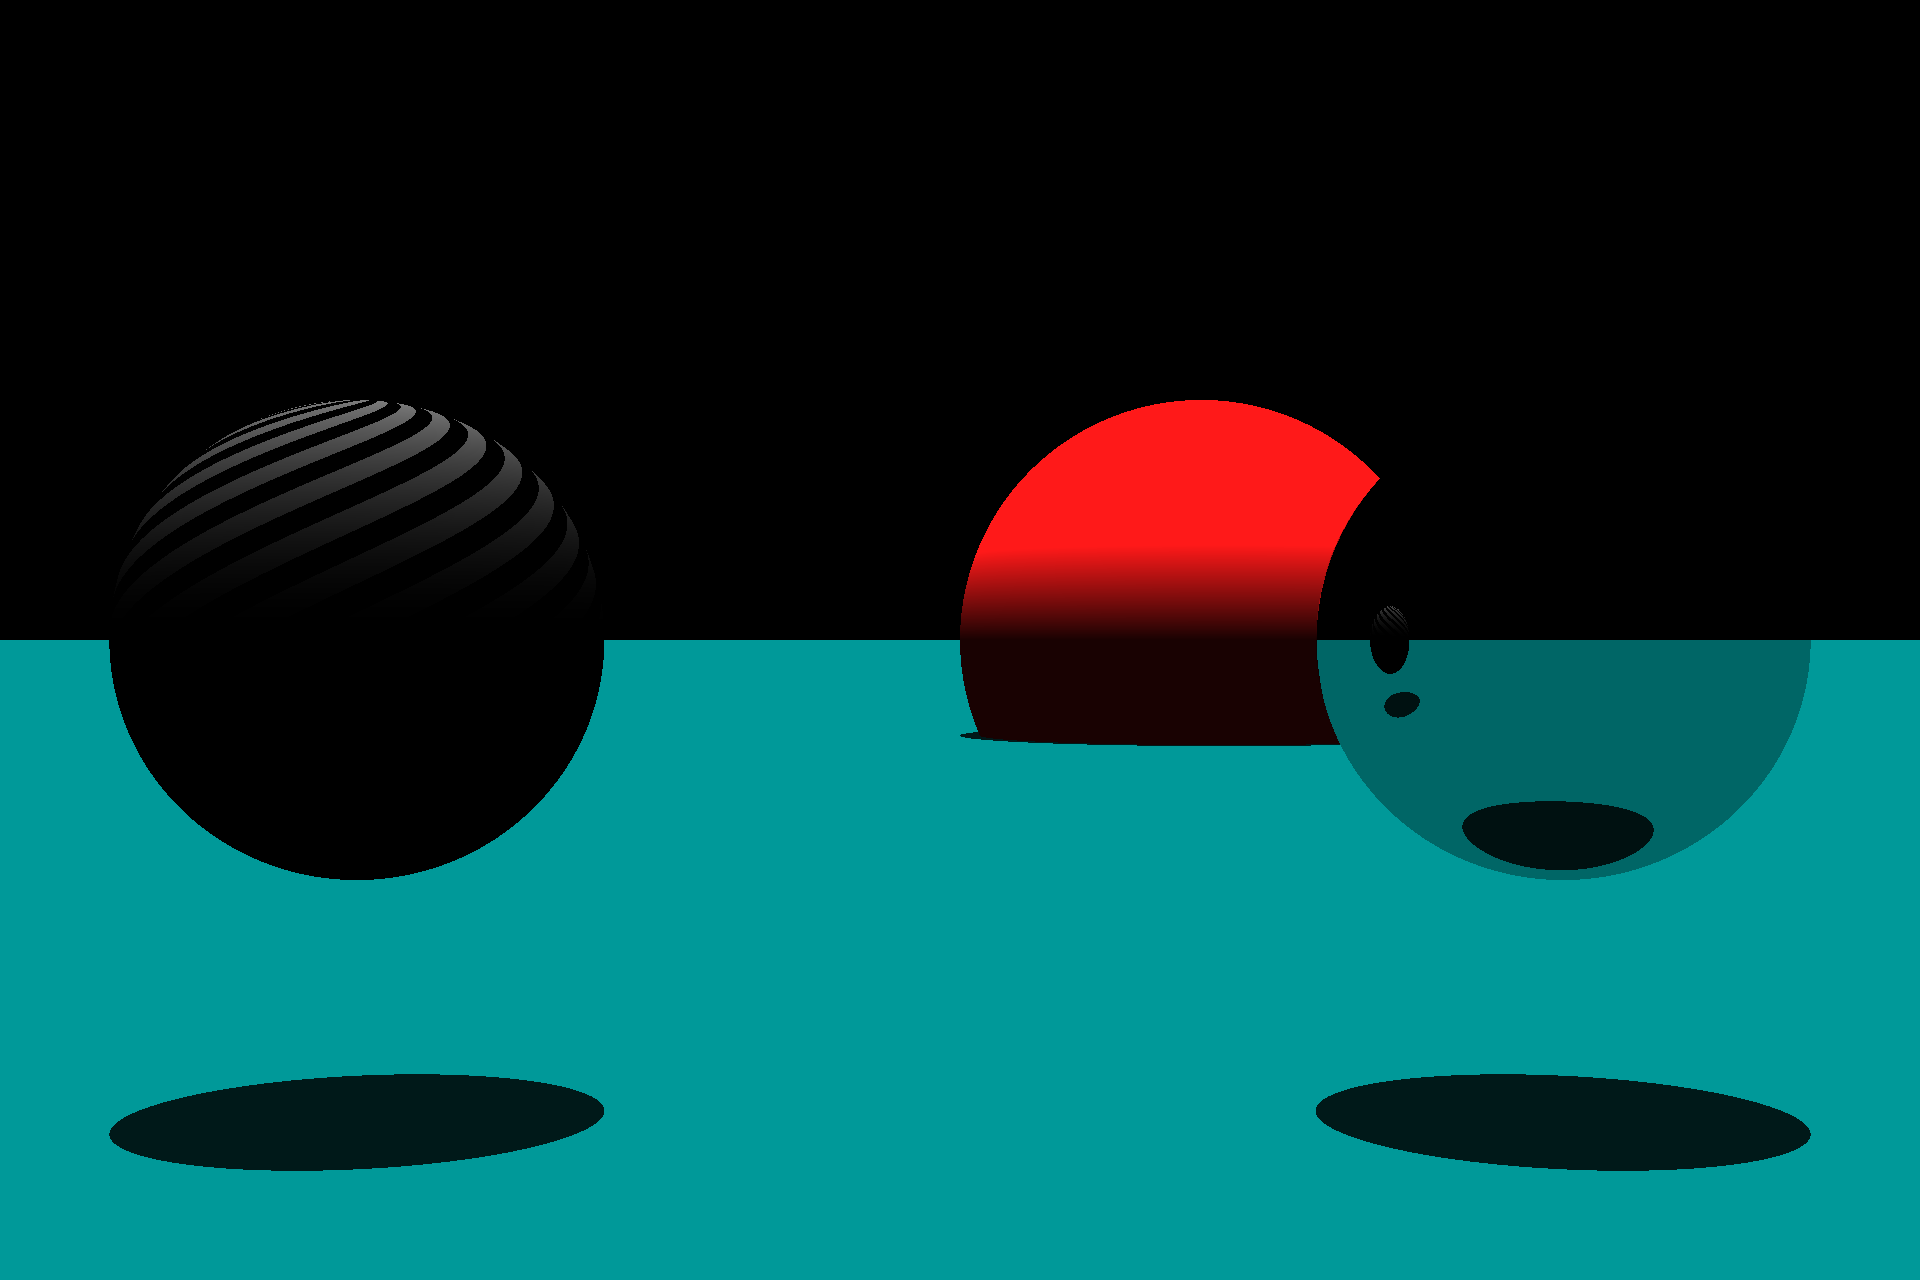
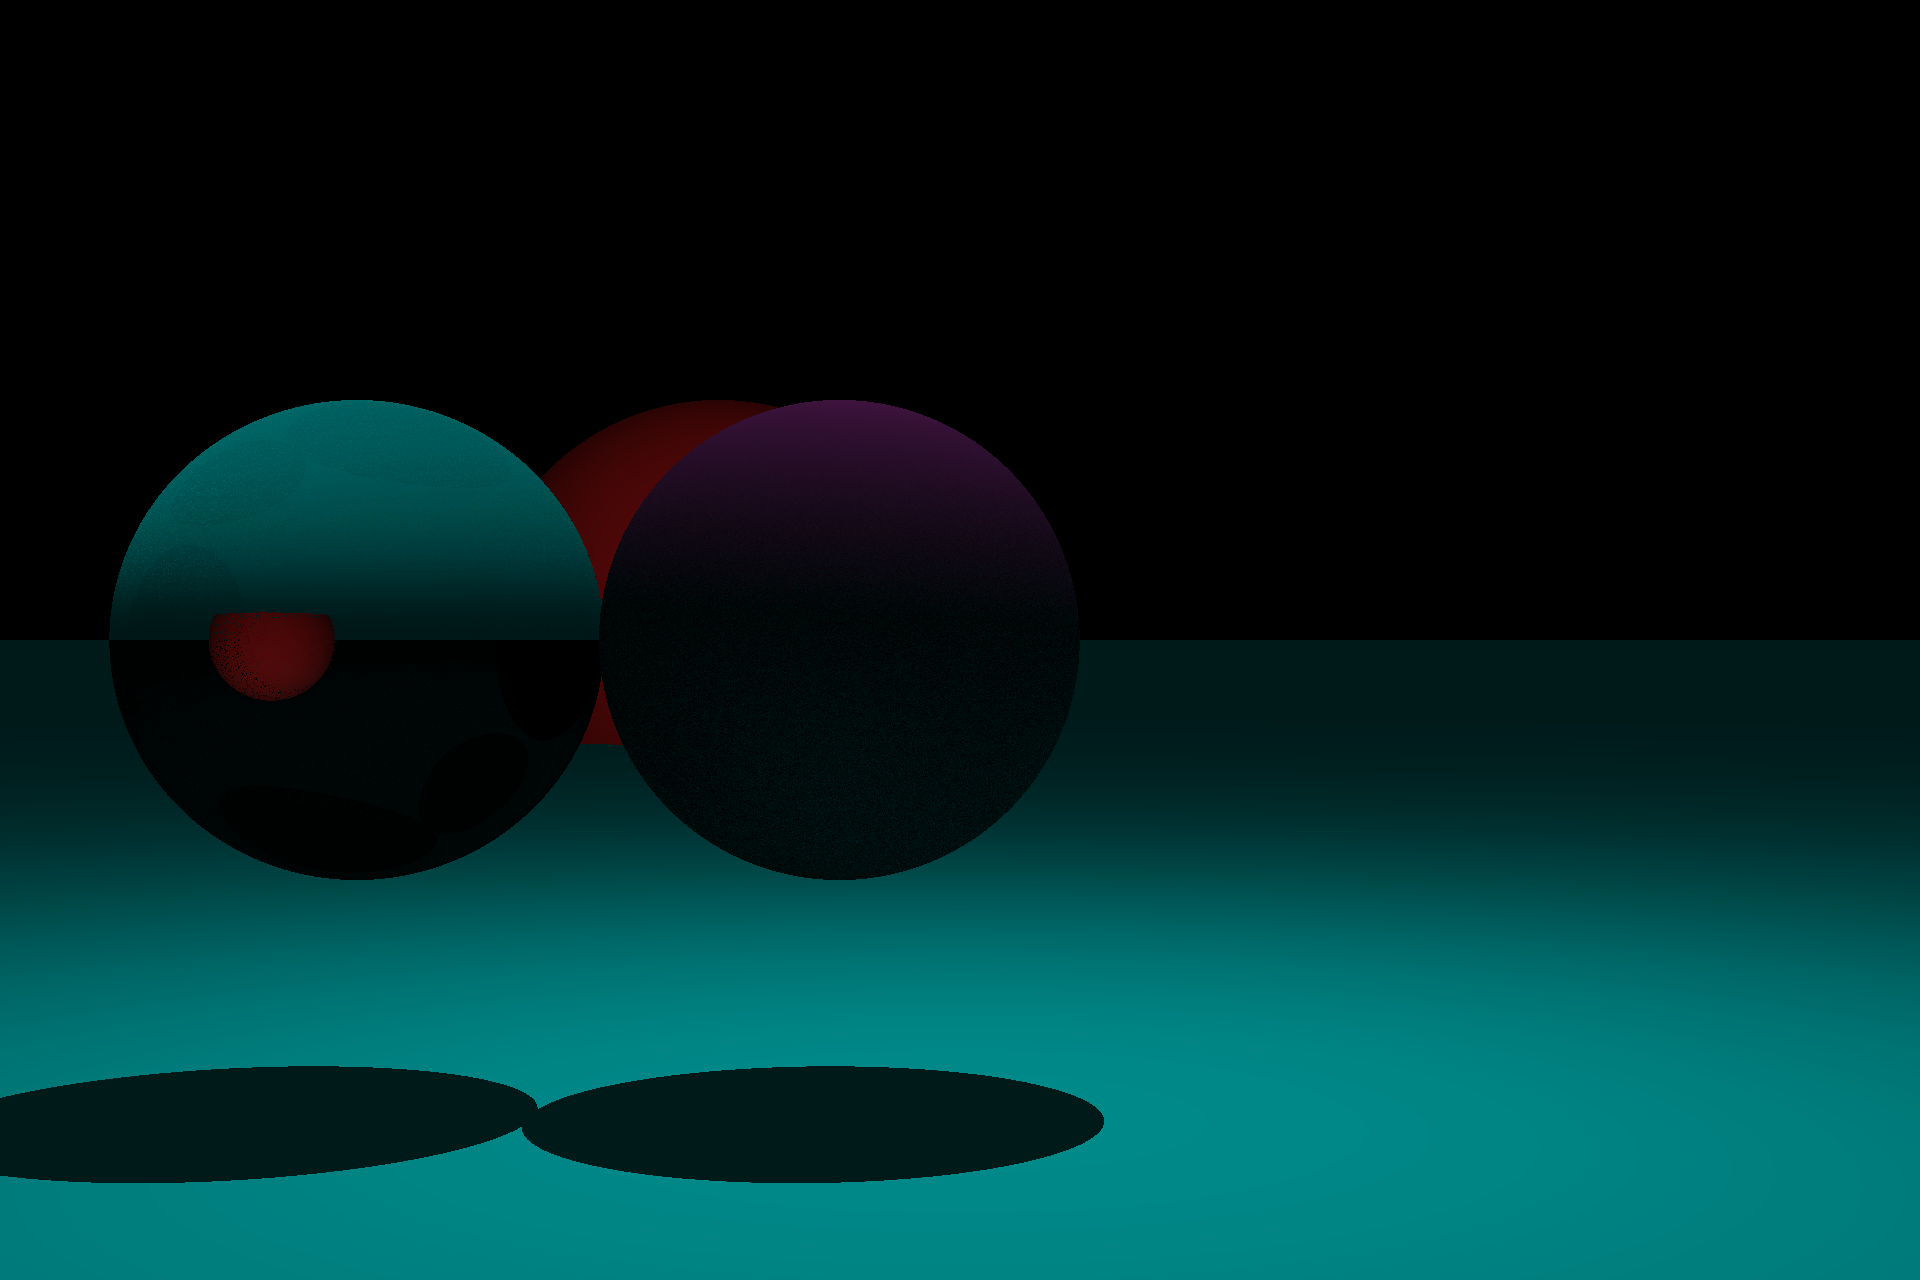
Add examples

diff --git a/image-converter/main.cpp b/image-converter/main.cpp
@@ -95,7 +95,7 @@ int main(int argc, char* argv[]) {
 		//sp1->surfType = surfaceType::REFLECT;
 		//sp1->ior = 5;
 		//figures.push_back(sp1);
-		figures.push_back(new Sphere(Vector3D(-5, 0, -50), 5, Vector3D(1, 0.1, 0.1)));
+		figures.push_back(new Sphere(Vector3D(0, 0, -50), 3, Vector3D(1, 0.1, 0.1)));
 		//Triangle* trig = new Triangle(Vector3D(0, 2, 1), Vector3D(-2.5, -2, 1), Vector3D(2.5, -2, 1), Vector3D(1, 1, 1));
 		////trig->setDotNormals(Vector3D(0,-1 ,0).normalize(), Vector3D(0, 1, -0.5).normalize(), Vector3D(1, 1, -0.5).normalize());
 		//trig->surfType = surfaceType::REFLECT_AND_REFRACT;
@@ -111,22 +111,37 @@ int main(int argc, char* argv[]) {
 		//sp2->surfType = surfaceType::REFLECT_AND_REFRACT;
 		//sp2->ior = 5;
 		//figures.push_back(sp2);
-		Sphere* sp = new Sphere(Vector3D(2.5, 0, -10), 1, Vector3D(1, 1,1));
-		sp->surfType = surfaceType::DIFFUSSE;
-		//sp->transform(trs);
-		figures.push_back(sp);
-		Sphere* sp1 = new Sphere(Vector3D(-2.5, 0, -10), 1, Vector3D(1, 0, 0));
-		sp1->surfType = surfaceType::REFLECT_AND_REFRACT;
-		sp1->ior = 1.5;
+		//Sphere* sp = new Sphere(Vector3D(-.5, 0, -10), 1, Vector3D(1, 0.32, 0.32));
+		//sp->surfType = surfaceType::DIFFUSSE;
+		////sp->transform(trs);
+		//figures.push_back(sp);
+		Sphere* sp1 = new Sphere(Vector3D(2, 0, -10), 1, Vector3D(1, 0.32, 0.32));
+		sp1->surfType = surfaceType::DIFFUSSE;
+		sp1->ior = 5;
+		for (int i = 6; i < 14; i++) {
+			std::cout << "![example " << i << "](/images/render" << i << ".png)" << std::endl;
+		}
 		figures.push_back(sp1);
+		Sphere* sp4 = new Sphere(Vector3D(-2, 0, -10), 1, Vector3D(0.32, 0.32, 1));
+		sp4->surfType = surfaceType::SP;
+		sp4->ior = 1.5;
+		figures.push_back(sp4);
+		Sphere* sp3 = new Sphere(Vector3D(0, 0, -10), 1, Vector3D(1, 1, 1));
+		sp3->surfType = surfaceType::REFLECT;
+		sp3->ior = 5;
+		//figures.push_back(sp3);
+		Sphere* sp2 = new Sphere(Vector3D(0, 0, -10), 1, Vector3D(1, 1, 1));
+		sp2->surfType = surfaceType::REFLECT_AND_REFRACT;
+		sp2->ior = 2.4;
+		figures.push_back(sp2);
 		figures.push_back(new Plane());
 		DI.set<std::vector<FigureI*>>(figures);
 		ICameraPositionProvider* camera = new StaticCameraPositionProvider();
 		DI.set<ICameraPositionProvider*>(camera);
 		std::vector<ILight*> lights;
-		lights.push_back(new PointLight(Vector3D(1, 1, 1),800,  Vector3D(0,10,-10)));
+		//lights.push_back(new PointLight(Vector3D(1, 1, 1),800,  Vector3D(0,10,-10)));
 		//lights.push_back(new PointLight(Vector3D(1, 1, 1), 800, Vector3D(-10, 10, -10)));
-		//lights.push_back(new DirectionalLight(Vector3D(1, 1, 1),0.5,Vector3D(0, 1, 0)));
+		lights.push_back(new DirectionalLight(Vector3D(1, 1, 1),0.5,Vector3D(0, 1, 0)));
 		DI.set<std::vector<ILight*>>(lights);
 		DI.set<IRayProvider*>(new PerspectiveRayProvider(DI.get<ICameraPositionProvider*>()[0]));
 		DI.get<RayTracer>()->render(DI);

diff --git a/image-converter/RayTrace/RayTracer.cpp b/image-converter/RayTrace/RayTracer.cpp
@@ -247,7 +247,7 @@ Vector3D RayTracer::whittedTrace(Vector3D originray, Vector3D directionray, std:
             Vector3D lightIntens;
             lights[i]->illuminate(intersect.Params.pHit, lightDir, lightIntens, intersect.Params.tNear);
             Vector3D vis = shadowed(intersect, figures, std::vector<ILight*>{lights[i]});
-            float angle = (90 * M_PI / 180);
+            float angle = (45 * M_PI / 180);
             float x = ((1 + atan2(intersect.Params.hitNormal.z, intersect.Params.hitNormal.x) / M_PI) * 0.5) * cos(angle);
             float y = (acosf(intersect.Params.hitNormal.y) / M_PI) * sin(angle);
             float s = x - y;
@@ -363,7 +363,7 @@ Vector3D RayTracer::whittedTraceWithTree(Vector3D originray, Vector3D directionr
                     Vector3D lightIntens;
                     lights[i]->illuminate(intersect.Params.pHit, lightDir, lightIntens, intersect.Params.tNear);
                     Vector3D vis = shadowed(intersect, tree, std::vector<ILight*>{lights[i]});
-                    float angle = (90 * M_PI / 180);
+                    float angle = (45 * M_PI / 180);
                     float x = ((1 + atan2(intersect.Params.hitNormal.z, intersect.Params.hitNormal.x) / M_PI) * 0.5) * cos(angle);
                     float y = (acosf(intersect.Params.hitNormal.y) / M_PI) * sin(angle);
                     float s = x - y;

diff --git a/image-converter/RayTrace/RayTracer.h b/image-converter/RayTrace/RayTracer.h
@@ -7,7 +7,7 @@
 #include "KDTree/KDTree.h"
 
 class RayTracer {
-	int MAXDEPTH = 4;
+	int MAXDEPTH = 10;
 public:
 	Intersection trace(Vector3D originray, Vector3D directionray, std::vector<FigureI*> figures);
 	Intersection trace(Vector3D originray, Vector3D directionray, std::vector<Triangle*> figures);

diff --git a/README.md b/README.md
@@ -54,3 +54,43 @@ renderer.x64.exe --source=deer.obj --output=render4.png --side=back
 Examples of render:
 renderer.x64.exe --source=deer.obj --output=render5.png --side=right
 ![example 5](/images/render5.png)
+
+## Whitted tracer and different materials
+
+Examples of render:
+Purple sphere in midle and glass sphere to the left, also red sphere far. Point light.
+![example 6](/images/render6.png)
+
+Examples of render:
+Three diffuse sphere and point light.
+![example 7](/images/render7.png)
+
+Examples of render:
+3 sphere in one line, first 2 from glass and last without material. Depth of traced incresed up to 10. Point light.
+![example 8](/images/render8.png)
+
+Examples of render:
+3 sphere in one line. There is sphere in another shpere, both from glass and last without material. Depth of traced incresed up to 10. Point light.
+![example 9](/images/render9.png)
+
+Examples of render:
+Sphere in middle has reflect material. Both anothere sphere with spirals. Directional light.
+
+![example 10](/images/render10.png)
+
+Examples of render:
+Sphere in middle has diffuse material. Both anothere sphere with diffuse and glossy material. Directional light.
+![example 11](/images/render11.png)
+
+Examples of render:
+Closest sphere from glass. Middle sphere also from glass but absorbs blue color. Spheres around from diffuse, and the last one default. Directional light.
+![example 12](/images/render12.png)
+
+Examples of render:
+Middle sphere is mirror and absorbs some luminence. Spheres around from diffuse and with spirall(angle 0). Directional light.
+![example 13](/images/render13.png)
+
+
+Examples of render:
+Middle sphere is from material which reflect and refract with ior 2.4(diamond). Spheres around from diffuse and with spirall(angle 0). Directional light.
+![example 14](/images/render14.png)
